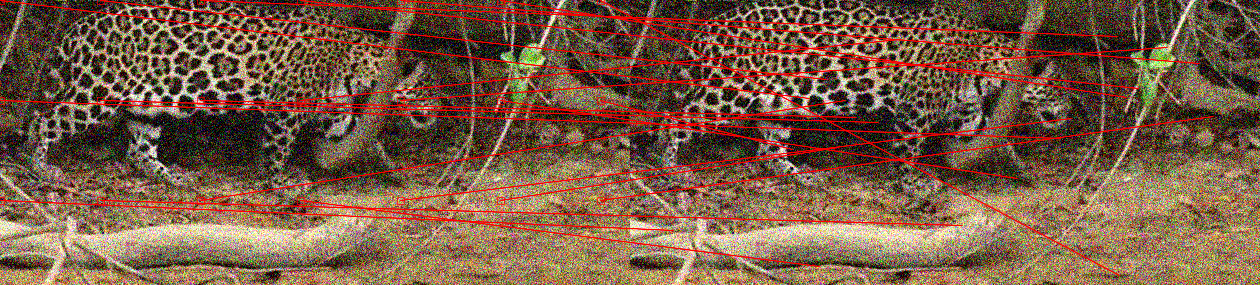
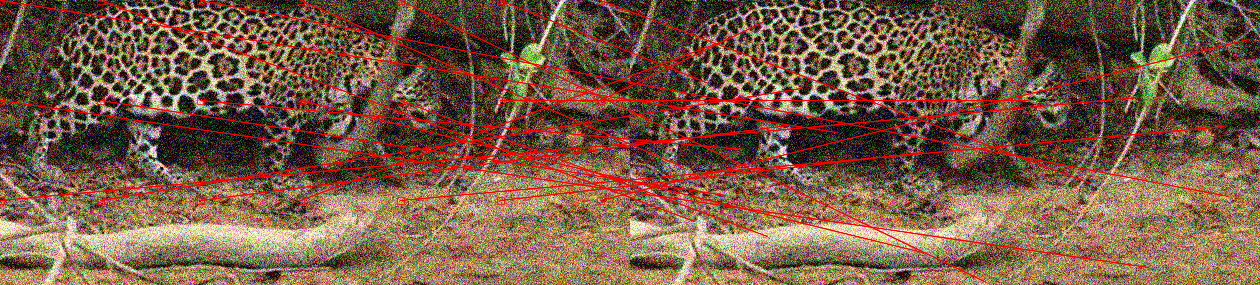
new commit

diff --git a/A4/code/algorithm.py b/A4/code/algorithm.py
@@ -99,45 +99,81 @@ def propagation_and_random_search_k(source_patches, target_patches,f_heap,f_coor
     k = len(f_heap[0][0])
     N = source_patches.shape[0]
     M = source_patches.shape[1]
-
-    if random_enabled:
-        import math
-        random_len = int(np.ceil(math.log(1.0 / w, alpha)))
-        alphalist = []
-        for i in range(random_len):
-            alphalist.extend([np.power(alpha, i)] * k)
-        alphalist = np.array(alphalist).reshape(random_len * k, 1)
-
+    itera = int(np.ceil(- np.log10(w)/ np.log10(alpha)))
     if odd_iteration == True:
         for i in range(0,source_patches.shape[0]):
+            print(i)
+            # i = 12
             for j in range(0,source_patches.shape[1]):
+                # j = 414
                 if propagation_enabled:
                     # d_set = dict()
+                    worst = f_heap[i][max(j-1,0)][0][0]
                     for h in f_heap[i][max(j-1,0)]:
-                        # print([i+h[2][0],j+h[2][1]])
-                        # print(h[2] in f_coord_dictionary[i][j])
-                        if(within_dim([i+h[2][0],j+h[2][1]],source_patches) and (h[2] not in f_coord_dictionary[i][j])):
+                        # if(h[2] == (75,-139)):
+                        #     # print(f_coord_dictionary[i][max(j-1,0)].keys())
+                        #     print(i,j)
+                        if((within_dim([i+h[2][0],j+h[2][1]],source_patches)==False) and (h[2] not in f_coord_dictionary[i][j])):
+                            # print(i,j)
                             # replace the patch with adjacent patch.
                             loc_in_B = [i+h[2][0],j+h[2][1]]
                             # print(loc_in_B, i, j, within_dim([i+h[2][0],j+h[2][1]],source_patches))
-                            one = np.linalg.norm(source_patches[i,j] - target_patches[loc_in_B[0],loc_in_B[1]])
+                            one = -np.linalg.norm(source_patches[i,j] - target_patches[loc_in_B[0],loc_in_B[1]])
                             two = _tiebreaker.next()
                             three = h[2]
-                            # print(type(three),len(t))
-                            # since we are replacing the worst one with this patch. Just push and pop.
+                            # pritn(three)A
+                            # print(one,worst)
+                            # if(-one > worst):
+                            f_coord_dictionary[i][j][three] = 1
                             set_none = heappushpop(f_heap[i][j],(one,two,three))
-                            f_coord_dictionary[i][j].pop(set_none[2],0)
+                            f_coord_dictionary[i][j].pop(set_none[2],None)
+                            worst = set_none[0]
+                    worst = f_heap[max(i-1, 0)][j][0][0]
                     for h in f_heap[max(i-1, 0)][j]:
-                        if(within_dim([i+h[2][0],j+h[2][1]],source_patches) and (h[2] not in f_coord_dictionary[i][j])):
-                            # replace the patch with adjacent patch.
+                        # if(h[2] == (75,-139)):
+                            # print(i,j)
+                        if((within_dim([i+h[2][0],j+h[2][1]],source_patches)==False) and (h[2] not in f_coord_dictionary[i][j])):
+                            # replace the patch with adjacent patch.``
                             loc_in_B = [i+h[2][0],j+h[2][1]]
-                            one = np.linalg.norm(source_patches[i,j] - target_patches[loc_in_B[0],loc_in_B[1]])
+                            one = -np.linalg.norm(source_patches[i,j] - target_patches[loc_in_B[0],loc_in_B[1]])
                             two = _tiebreaker.next()
                             three = h[2]
+                            # prinT(three)
                             # since we are replacing the worst one with this patch. Just push and pop.
+                            # if(-one > worst):
+                            f_coord_dictionary[i][j][three] = 1
                             set_none = heappushpop(f_heap[i][j],(one,two,three))
-                            f_coord_dictionary[i][j].pop(set_none[2],0)
-
+                            f_coord_dictionary[i][j].pop(set_none[2])
+                                # worst = set_none[0]
+                if random_enabled:
+                    for neighbor in f_heap[i][j]: # Random search around pixel and its neighbors
+                    # k_neighb = f_coord_dictionary[i][j].keys()
+                    # pop = np.array(list(k_neighb))
+                        # print(neighbor)
+                        current_dist = neighbor[0] #(similarity, null, offset)
+                        ofs = neighbor[2]
+                        current_patch = np.array([i+ofs[0], j+ofs[1]])
+                        max_loop = int(itera)
+                        l = 0
+                        while(l < max_loop):
+                            R = np.random.randint(-1,2,size=2) # [1, 1]
+                            # print(R,current_patch,w*(alpha**l))
+                            new_point = current_patch + w*(alpha**l)*R
+                            # clip new point to fit in image
+                            new_point.astype(int)
+                            new_point = [int(new_point[0]),int(new_point[1])]
+                            # print(new_point)
+                            # print(within_dim(tuple(new_point),source_patches))
+                            if(within_dim(tuple(new_point),source_patches)==False):
+                                new_dist = -np.linalg.norm(source_patches[i, j] - target_patches[int(new_point[0]), int(new_point[1])])
+                                # new_point = [new_point[0]-i,new_point[1]-j]
+                                new_tup = (new_dist, _tiebreaker.next(),tuple(new_point))
+                                if(-new_dist > current_dist):
+                                    if(tuple(new_point) not in f_coord_dictionary[i][j]):
+                                        f_coord_dictionary[i][j][tuple(new_point)] = 1
+                                        set_none = heappushpop(f_heap[i][j],new_tup)
+                                        f_coord_dictionary[i][j].pop(set_none[2])
+                            l = l+1
     else:
                 # consider f(x+1,y),f(x,y+1)
         h_min,w_min,offsets = source_patches.shape[0]-1,source_patches.shape[1]-1,-1
@@ -146,26 +182,65 @@ def propagation_and_random_search_k(source_patches, target_patches,f_heap,f_coor
         for i in range(h_min,-1,-1):
             for j in range(w_min,-1,-1):
                 if propagation_enabled:
+                    worst = f_heap[min(i+1,h_min-1)][j][0][0]
                     for h in f_heap[min(i+1,h_min-1)][j]:
-                        if(within_dim([i+h[2][0],j+h[2][1]],source_patches) and (h[2] in f_coord_dictionary[i][j].keys())):
+                        if(not(within_dim([i+h[2][0],j+h[2][1]],source_patches)) and (h[2] not in f_coord_dictionary[min(i+1,h_min-1)][j].keys())):
                             # replace the patch with adjacent patch.
                             loc_in_B = [i+h[2][0],j+h[2][1]]
                             one = np.linalg.norm(source_patches[i,j] - target_patches[loc_in_B[0],loc_in_B[1]])
                             two = _tiebreaker.next()
                             three = h[2]
                             # since we are replacing the worst one with this patch. Just push and pop.
-                            set_none = heappushpop(f_heap[i][j],(one,two,three))
-                            f_coord_dictionary[i][j].pop(set_none[2],0)
+                            # print(one,worst)
+                            if(-one > worst):
+                                f_coord_dictionary[min(i+1,h_min-1)][j][three] = None
+                                set_none = heappushpop(f_heap[min(i+1,h_min-1)][j],(-one,two,three))
+                                f_coord_dictionary[min(i+1,h_min-1)][j].pop(set_none[2])
+                                worst = f_heap[min(i+1,h_min-1)][j][0]
+                            # set_none = heappushpop(f_heap[i][j],(one,two,three))
+                            # f_coord_dictionary[i][j].pop(set_none[2])
+                    worst = f_heap[i][min(j+1,w_min-1)][0][0]
                     for h in f_heap[i][min(j+1,w_min-1)]:
-                        if(within_dim([i+h[2][0],j+h[2][1]],source_patches) and (h[2] in f_coord_dictionary[i][j].keys())):
+                        if(h[2] == (75,-139)):
+                            print(i,j)
+                        if(not(within_dim([i+h[2][0],j+h[2][1]],source_patches)) and (h[2] not in f_coord_dictionary[i][min(j+1,w_min-1)].keys())):
                             # replace the patch with adjacent patch.
                             loc_in_B = [i+h[2][0],j+h[2][1]]
                             one = np.linalg.norm(source_patches[i,j] - target_patches[loc_in_B[0],loc_in_B[1]])
                             two = _tiebreaker.next()
                             three = h[2]
                             # since we are replacing the worst one with this patch. Just push and pop.
-                            set_none = heappushpop(f_heap[i][j],(one,two,three))
-                            f_coord_dictionary[i][j].pop(set_none[2],0)
+                            # set_none = heappushpop(f_heap[i][min(j+1,w_min-1)],(one,two,three))
+                            # f_coord_dictionary[.pop(set_none[2])
+                            # print(one,worst)
+                            if(-one > worst):
+                                f_coord_dictionary[min(i+1,h_min-1)][j][three] = None
+                                set_none = heappushpop(f_heap[i][min(j+1,w_min-1)],(-one,two,three))
+                                f_coord_dictionary[i][min(j+1,w_min-1)].pop(set_none[2])
+                                worst = f_heap[i][min(j+1,w_min-1)][0][0]
+                if random_enabled:
+                    for neighbor in f_heap[i][j]: # Random search around pixel and its neighbors
+                    # k_neighb = f_coord_dictionary[i][j].keys()
+                    # pop = np.array(list(k_neighb))
+                        current_dist = neighbor[0] #(similarity, null, offset)
+                        ofs = neighbor[2]
+                        current_patch = [i, j] + lis(ofs)
+                        max_loop = int(itera)
+                        l = 0
+                        while(l < max_loop):
+                            R = np.random.randint(-1,2,size=2) # [1, 1]
+                            new_point = current_patch + w*(alpha**l)*R
+                            # clip new point to fit in image
+                            # print(new_point)
+                            if(within_dim(new_point,source_patches)==False):
+                                new_dist = np.linalg.norm(source_patches[i, j] - target_patches[new_point[0], new_point[1]])
+                                new_tup = (-new_dist, _tiebreaker.next(),tuple(new_point))
+                                if(-new_dist > current_dist[0]):
+                                    if(tuple(new_point) not in f_coord_dictionary[i][j].keys()):
+                                        f_coord_dictionary[i][j][tuple(new_point)] = None
+                                        set_none = heappushpop(f_heap[i][j],new_tup)
+                                        f_coord_dictionary[i][j].pop(set_none[2])
+                            l = l+1
 
     return global_vars
 
@@ -221,8 +296,8 @@ def NNF_matrix_to_NNF_heap(source_patches, target_patches, f_k):
             f_heap[i][j] = []
             f_coord_dictionary[i][j] = {}
             for k in range(f_k.shape[0]):
-                f_coord_dictionary[i][j][(f_k[k,i,j,0],f_k[k,i,j,1])] = None
-                one = np.linalg.norm(source_patches[i,j]-target_patches[(i+f_k[k,i,j,0]),(j+f_k[k,i,j,1])])
+                f_coord_dictionary[i][j][(f_k[k,i,j,0],f_k[k,i,j,1])] = 1
+                one = -np.linalg.norm(source_patches[i,j]-target_patches[(i+f_k[k,i,j,0]),(j+f_k[k,i,j,1])])
                 two =_tiebreaker.next()
                 three =  (f_k[k,i,j,0],f_k[k,i,j,1])
                 heappush(f_heap[i][j],(one,two,three))
@@ -251,10 +326,10 @@ def NNF_heap_to_NNF_matrix(f_heap):
     #############################################
     ###  PLACE YOUR CODE BETWEEN THESE LINES  ###
     #############################################
-    n,m,k = len(f_heap),len(f_heap[1]),len(f_heap[0][1])
-    f_k,D_k = np.zeros((k,n,m,2),dtype=int),np.zeros((k,n,m))
-    for i in range(n):
-        for j in range(m):
+    max_i,max_j,k = len(f_heap),len(f_heap[1]),len(f_heap[0][1])
+    f_k,D_k = np.zeros((k,max_i,max_j,2),dtype=int),np.zeros((k,max_i,max_j))
+    for i in range(max_i):
+        for j in range(max_j):
             n_larges = nlargest(k,f_heap[i][j])
             # print(n_larges)
             # sys.exit()
@@ -262,41 +337,33 @@ def NNF_heap_to_NNF_matrix(f_heap):
                 f_k[l,i,j] = n_larges[l][2]
                 D_k[l,i,j] = n_larges[l][0]
     ##############################################
-    return f_k, D_k
+    return f_k, -D_k
 #
 def nlm(target, f_heap, h):
-
-
     # this is a dummy statement to return the image given as input
-    #denoised = target
-
-    #############################################
-    ###  PLACE YOUR CODE BETWEEN THESE LINES  ###
-    #############################################
-    # result = np.zeros(target.shape)
-    # max_i,max_j = target.shape[0],target.shape[1]
-    # for i in range(max_i):
-    #     for j in range(max_j):
-    #         z = 0
-    #         for l in f_heap[i][j]:
-    #             w = np.exp(f[0] / h2)
-    #             z += w
-    #         #     x = i + f[2][0]
-    #         #     y = j + f[2][1]
-    #         #     if x < 0 or x >= N or y < 0 or y >= M:
-    #         #         continue
-    #         #     denoised[i][j] += w * target[x, y]
-    #         # if z == 0:
-    #         #     continue
-    #         result = result[i][j] / normalizer
-    return denoised
+    result = np.empty(target.shape)
+    max_i,max_j,k = target.shape[0],target.shape[1],len(f_heap[0][0])
+    # #############################################
+    # ###  PLACE YOUR CODE BETWEEN THESE LINES  ###
+    # #############################################
+    for i in range(max_i):
+        for j in range(max_j):
+            normalizer = 0
+            for l in range(k):
+                heap = f_heap[i][j][l]
+                summa = np.exp((heap[0])/(h**2))
+                if(within_dim((heap[2][0]+i,heap[2][1]+j),target)):
+                    result[i][j] = summa * target[heap[2][0]+i,heap[2][1]+j]
+                normalizer += summa
+            result[i][j] = result[i][j] / normalizer
+    return result
 
 #############################################
 ###  PLACE ADDITIONAL HELPER ROUTINES, IF ###
 ###  ANY, BETWEEN THESE LINES             ###
 #############################################
 def within_dim(x,y):
-    return (x[0] < 0 or x[0] > y.shape[0]) or (x[1] < 0 or x[1] > y.shape[1])
+    return (x[0] < 0 or x[0] >= y.shape[0]) or (x[1] < 0 or x[1] >= y.shape[1])
 #############################################
 
 
